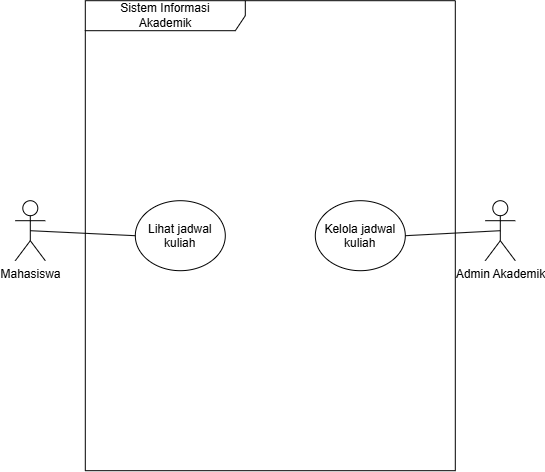
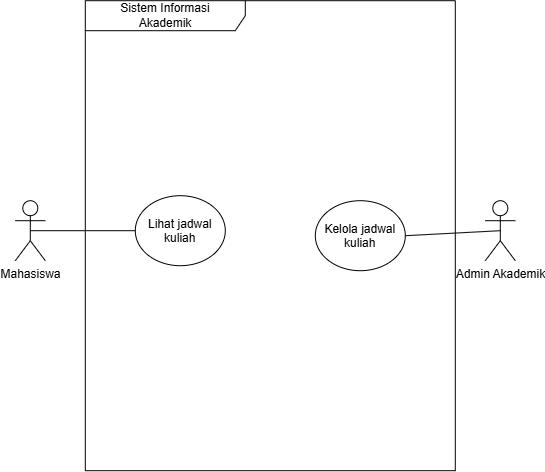
PERTEMUAN 2 UNIFIED MODELLING LANGUAGE (UML)

Changed region(s): [[0.0624, 0.4153, 0.4367, 0.5932]]

diff --git a/06_laporan/P02_2406085_jobsheet_review_v01.md b/06_laporan/P02_2406085_jobsheet_review_v01.md
@@ -4,3 +4,4 @@
 | 2. | Node **Lihat Jadwal Kuliah** menggunakan bentuk persegi. | Node **Lihat Jadwal Kuliah** seharusnya menggunakan bentuk lingkaran/elips sesuai dengan notasi yang digunakan pada diagram. | Karena pada notasi UML, **Entry Point** direpresentasikan menggunakan simbol lingkaran/elips, bukan persegi. |
 | 3. | Aktor **Mahasiswa** dihubungkan dengan **Kelola Jadwal Kuliah**. | Aktor **Mahasiswa** dihubungkan dengan **Lihat Jadwal Kuliah**, sedangkan aktor **Admin Akademik** dihubungkan dengan **Kelola Jadwal Kuliah**. | Karena Mahasiswa memiliki hak untuk melihat jadwal kuliah, sedangkan pengelolaan jadwal kuliah merupakan tanggung jawab Admin Akademik. |
 | 4. | Identitas diagram keliru. | Identitas diagram diganti menjadi **Sistem Informasi Akademik**. | Karena kasus yang diuji merupakan sistem informasi akademik, bukan sistem informasi laboratorium. |
+//

diff --git a/01_skenario/P02_SIA_skenario_v01.md b/01_skenario/P02_SIA_skenario_v01.md
@@ -2,3 +2,4 @@ Mahasiswa melihat jadwal kuliah melalui Sistem Informasi Akademik.
 Admin akademik mengelola jadwal kuliah. Dalam latihan ini, mahasiswa
 tidak mengelola jadwal dan admin tidak dihubungkan dengan fungsi
 melihat jadwal sebagai pengguna mahasiswa.
+//

diff --git a/01_skenario/P02_LAB_skenario_v01.md b/01_skenario/P02_LAB_skenario_v01.md
@@ -5,3 +5,4 @@ menggambarkan hubungan kedua peran dengan fungsi tersebut.
 ID kebutuhan  Aktor      Nama fungsi
 LAB-R01       Mahasiswa  Lihat ketersediaan peralatan
 LAB-R02       Petugas    laboratorium Kelola data peralatan
+//

diff --git a/02_template/P02_template_metadata_artefak_v01.md b/02_template/P02_template_metadata_artefak_v01.md
@@ -9,3 +9,4 @@ Versi dan tanggal   : v01 / 07-10-2026
 Asumsi              : Hak akses sesuai; autentikasi di luar latihan
 Pemeriksaan         : [hasil review]
 Riwayat revisi      : [perubahan yang benar-benar dilakukan]
+//

diff --git a/00_administrasi/P02_2406085_logbook_v01.md b/00_administrasi/P02_2406085_logbook_v01.md
@@ -9,3 +9,4 @@ sistem.✔
 • Nama berkas dan nomor versi konsisten.✔
 • Sumber dapat dibuka dan disunting.✔
 • Ekspor sesuai sumber terkini.✔
+//

diff --git a/01_skenario/S-ORI-01_orientasi_kasus_v01.md b/01_skenario/S-ORI-01_orientasi_kasus_v01.md
@@ -2,3 +2,4 @@ node awal →
 aktivitas “Buka daftar peralatan” →  
 aktivitas “Lihat informasi ketersediaan” →  
 node akhir aktivitas
+//

diff --git a/02_template/P01_template_metadata_artefak_v01 copy.md b/02_template/P01_template_metadata_artefak_v01 copy.md
@@ -9,3 +9,4 @@ Versi dan tanggal   : 01 30-09-26
 Asumsi/pertanyaan   :
 Pemeriksaan         :
 Riwayat revisi      :
+//
